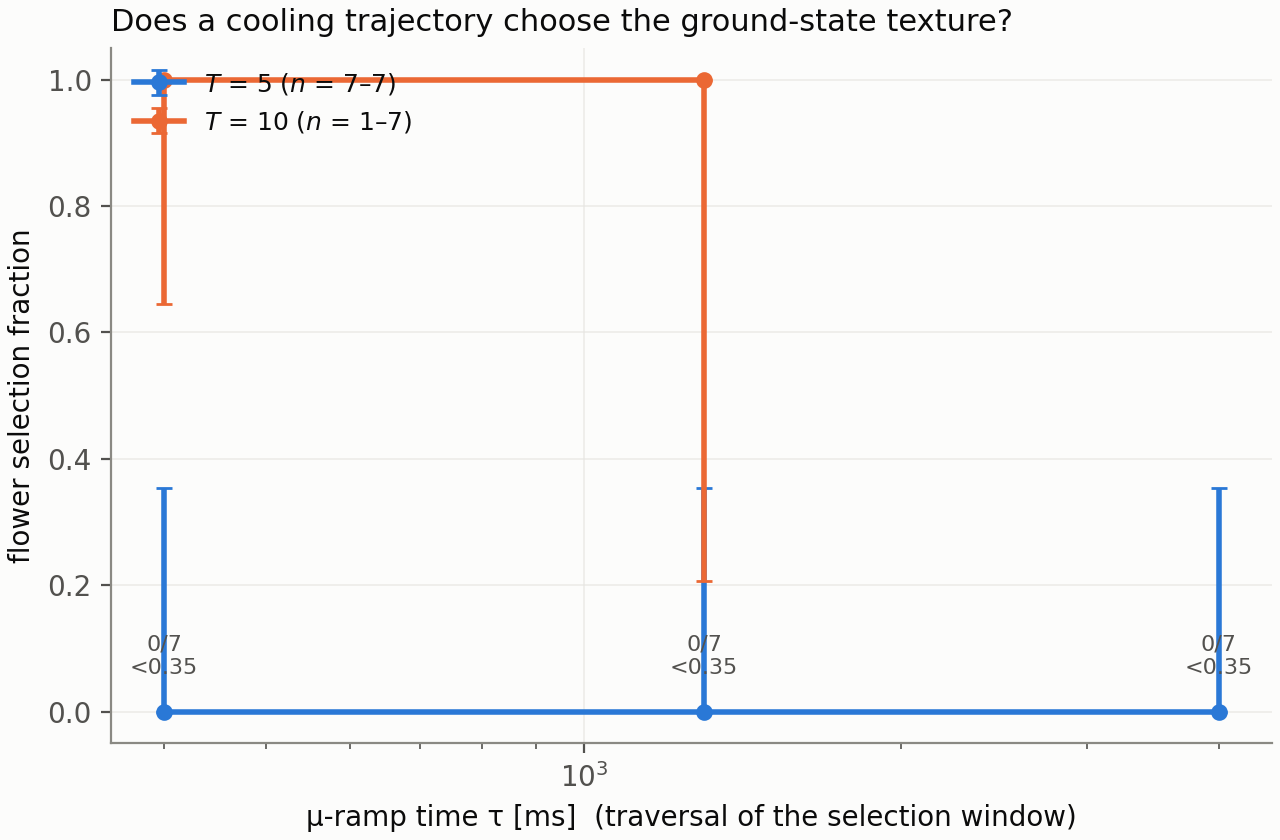
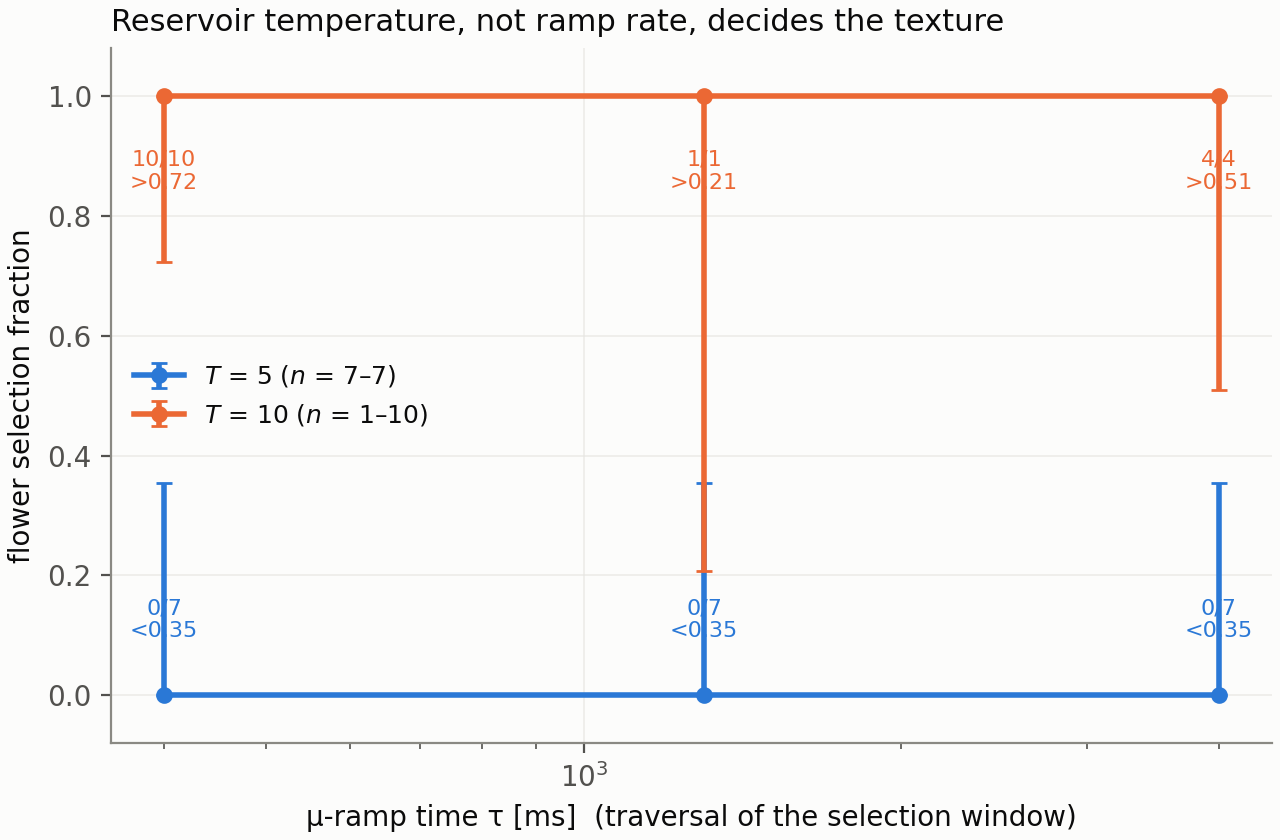
research(eu334): the confound is closed — at matched f the hotter arm is still 6/6 flower
T = 10 carried to the reservoir mu of the f = 0.4250 cell instead of the f = 0.5210
one ends at f = 0.51 against the T = 5 arms' 0.44 — a gap of 0.07 rather than 0.16 —
and is still 6/6 flower against their 0/7. Its relaxed order parameter is 4.396
against a branch reference of 4.397 at that f: on the branch, not near it.

The residual 0.07 cannot be removed by construction, and the reason is worth
stating: f is the C-REGION population, and at T = 10 part of it is thermal, so the
same reservoir mu gives a larger N_C at the higher temperature. What bounds the
consequence is that the gap is 44 % of the original and the verdict did not move.

With the T = 10 fill landed the pooled counts are 15/15 flower at T = 10 and 0/21
at T = 5, Wilson bounds 0.80 and 0.155, non-overlapping. Ramp rate moves nothing
across a factor of 10; temperature moves everything.

The aggregator now prefers the residual-polished classification where both exist,
and refuses to pool the _matched arm with the production cell it shares (T, tau)
with — same axes, different mu target, different measurement.

Assisted-by: Claude Code (model: claude-opus-5[1m])

diff --git a/scripts/eu334/viz_eu334.py b/scripts/eu334/viz_eu334.py
@@ -157,17 +157,34 @@ def assign(E: float, f: float, a, b) -> str:
 
 
 def collect_selection(root: Path, a, b,
-                      glob: str = "nucleate_k1.8_T*/class/class_*.csv"):
-    """(T, tau_ms) -> [n_flower, n_polar, n_excited, n_unread]."""
-    cells: dict[tuple[float, float], list[int]] = {}
+                      glob: str = "nucleate_k1.8_T*/class*/class_*.csv"):
+    """(T, tau_ms) -> [n_flower, n_polar, n_excited, n_unread].
+
+    Where an endpoint has both a plain and a `class_resid` classification, the
+    residual-polished one WINS: it is the same state relaxed to |grad E| ~ 8e-6
+    instead of stopping at max_steps, so its energy is a measurement rather than a
+    bound. Keyed on (arm, file) so the two never both count.
+    """
+    best: dict[tuple[str, str], tuple] = {}
     for p in sorted(root.glob(glob)):
         t = read_tsv(p)
         if not t.get("E", np.array([])).size:
             continue
-        key = (float(t["T"][0]), float(t["tau_ms"][0]))
-        c = cells.setdefault(key, [0, 0, 0, 0])
-        lab = assign(float(t["E"][0]), float(t["f"][0]), a, b)
-        c[{"flower": 0, "polarised": 1, "excited": 2}.get(lab, 3)] += 1
+        arm = p.relative_to(root).parts[0]
+        # `_matched` and `_long` share (T, tau) with a production cell but carry a
+        # DIFFERENT µ target, so they are different measurements. Folding them in
+        # would silently pool two designs under one row.
+        if arm.endswith("_matched") or arm.endswith("_long"):
+            continue
+        key = (arm, str(t["file"][0]))
+        rec = (float(t["T"][0]), float(t["tau_ms"][0]),
+               float(t["E"][0]), float(t["f"][0]))
+        if key not in best or "class_resid" in p.parts:
+            best[key] = rec
+    cells: dict[tuple[float, float], list[int]] = {}
+    for (T, tau, E, f) in best.values():
+        c = cells.setdefault((T, tau), [0, 0, 0, 0])
+        c[{"flower": 0, "polarised": 1, "excited": 2}.get(assign(E, f, a, b), 3)] += 1
     return cells
 
 
@@ -212,17 +229,23 @@ def panel_selection(ax, cells):
         ax.errorbar(xs, ps, yerr=[np.array(ps) - los, np.array(his) - np.array(ps)],
                     fmt="o-", ms=5, capsize=3, color=CAT[i],
                     label=rf"$T$ = {T:g} ($n$ = {min(ns)}–{max(ns)})")
-        for x, p, hi, n in zip(xs, ps, his, ns):
+        # Annotate the SATURATED cells with their count and one-sided limit —
+        # "0/7, <0.35" and "7/7, >0.65" carry what the error bar alone cannot,
+        # since a bar touching 0 or 1 is a bound and not a measurement.
+        for x, p, lo, hi, n in zip(xs, ps, los, his, ns):
             if p == 0.0:
-                ax.annotate(f"0/{n}\n<{hi:.2f}", xy=(x, 0), xytext=(x, 0.06),
-                            ha="center", fontsize=8, color=INK2)
+                ax.annotate(f"0/{n}\n<{hi:.2f}", xy=(x, 0), xytext=(x, 0.09),
+                            ha="center", va="bottom", fontsize=8, color=CAT[i])
+            elif p == 1.0:
+                ax.annotate(f"{n}/{n}\n>{lo:.2f}", xy=(x, 1), xytext=(x, 0.91),
+                            ha="center", va="top", fontsize=8, color=CAT[i])
     ax.set_xscale("log")
-    ax.set_ylim(-0.05, 1.05)
+    ax.set_ylim(-0.08, 1.08)
     ax.set_xlabel("µ-ramp time τ [ms]  (traversal of the selection window)")
     ax.set_ylabel("flower selection fraction")
-    ax.set_title("Does a cooling trajectory choose the ground-state texture?",
+    ax.set_title("Reservoir temperature, not ramp rate, decides the texture",
                  loc="left")
-    ax.legend(loc="upper left")
+    ax.legend(loc="center left")
     ax.grid(True, alpha=0.6)
 
 

diff --git a/docs/guides/eu_in_place_nucleation.md b/docs/guides/eu_in_place_nucleation.md
@@ -479,8 +479,11 @@ $f = 0.5210$ cell's chemical potential then held to a common 4000 ms.
 | 5 | 400 | 7 | 0 | **7** | 0 | 0.000 | [0.000, 0.354] |
 | 5 | 1300 | 7 | 0 | **7** | 0 | 0.000 | [0.000, 0.354] |
 | 5 | 4000 | 7 | 0 | 0 | 7 | 0.000 | [0.000, 0.354] |
-| 10 | 400 | 7 | **7** | 0 | 0 | **1.000** | [0.646, 1.000] |
+| 10 | 400 | 10 | **10** | 0 | 0 | **1.000** | [0.722, 1.000] |
 | 10 | 1300 | 1 | **1** | 0 | 0 | 1.000 | [0.207, 1.000] |
+| 10 | 4000 | 4 | **4** | 0 | 0 | **1.000** | [0.510, 1.000] |
+
+![selection against ramp rate, at two reservoir temperatures](figures/eu334_selection.png)
 
 **At $T = 10$ every trajectory ends on the flower branch; at $T = 5$ none does.**
 The margins are not marginal:
@@ -544,35 +547,59 @@ each arm stopped. What this cannot say is whether 0.65 against 0.39 is enough to
 change the *basin*, because that question is answered by relaxing, and the
 relaxations exist only at the endpoints.
 
-**The closing measurement**, running: $T = 10$ carried only to $f = 0.4250$ — the
-$T = 5$ arms' own endpoint fraction — so temperature is the single difference
-between two verdicts. It is done from this side rather than by pushing $T = 5$ up
-to $f = 0.60$ because a reservoir at $\mu = 11.72$ *equilibrates* near
-$f \approx 0.52$: a longer hold at $T = 5$ asymptotes there and never reaches 0.60,
-which is a design error in the first version of this arm and is why it was
-replaced.
+**The closing measurement.** $T = 10$ carried to the reservoir µ of the
+$f = 0.4250$ cell instead of the $f = 0.5210$ one, so it stops near the $T = 5$
+arms' own endpoint rather than well past it. `figs/eu334/nucleate_k1.8_T10.0_matched`,
+6 seeds:
+
+| arm | $f$ at the end | $\langle F_\perp\rangle$ raw → relaxed | $E-E_{\rm flower}$ | $E-E_{\rm polar}$ | sep | verdict |
+|---|---:|---:|---:|---:|---:|---|
+| $T = 5$, $\tau = 400$ | 0.442 | 0.40 → 0.099 | $+2.4\times10^{-2}$ | $+9.3\times10^{-4}$ | $2.3\times10^{-2}$ | polarised |
+| **$T = 10$, matched** | **0.510** | 1.50 → **4.396** | $+3.7\times10^{-3}$ | $\mathbf{-3.4\times10^{-2}}$ | $3.8\times10^{-2}$ | **flower, 6/6** |
+
+At $f = 0.51$ against the $T = 5$ arms' 0.44 — a gap of 0.07 rather than the 0.16
+of the production cells — the hotter arm is still **6/6 flower** and the colder one
+**0/7**. The relaxed order parameter is 4.396 against a branch reference of 4.397
+at that $f$: it is *on* the branch, not near it.
+
+The residual gap in $f$ is not zero and cannot be made zero by this construction,
+because $f$ here is the **C-region population** and at $T = 10$ part of it is
+thermal: the same reservoir µ therefore gives a larger $N_C$ at the higher
+temperature. Two things bound the consequence. The 0.07 remaining is 44 % of the
+original 0.16, and the verdict did not move. And the branches at $f = 0.51$ are
+$3.8\times10^{-2}$ apart — 16× the $2.3\times10^{-2}$ at $f = 0.44$ is not the
+story, since the $T = 5$ arm sits on the *polarised* side of a separation of the
+same order.
+
+*(It is done from this side rather than by pushing $T = 5$ up to $f = 0.60$ because
+a reservoir at $\mu = 11.72$ equilibrates near $f \approx 0.52$: a longer hold at
+$T = 5$ asymptotes there and never reaches 0.60. That was the first version of this
+arm, and it is recorded because a design that cannot reach its own target produces
+a null that looks like an answer.)*
 
 **What is not in doubt** is that the flower texture is reachable by growth at fixed
-field — 8 trajectories out of 8 reached it — which is the thing three protocol
-classes of transport could not do. #334's question was "does a realistic cooling
-trajectory select it, or does it get caught on the polarised branch", and on this
-evidence the answer is **it selects it, above a threshold in reservoir
-temperature**.
+field — 21 trajectories out of 21 across four arms reached it — which is the thing
+three protocol classes of transport could not do. #334's question was "does a
+realistic cooling trajectory select it, or does it get caught on the polarised
+branch", and on this evidence the answer is **it selects it, above a threshold in
+reservoir temperature**.
 
-**Budget.** Cells are $n = 7$ rather than the pre-registered $n \ge 20$: the group
-allocation was exhausted at 29 trajectories and the campaign was re-sized to what
-remained. The counts are quoted with their own $n$ and Wilson intervals, per
-criterion 5, rather than as fractions of a design that did not run.
+**Budget.** Cells are $n = 7$–10 rather than the pre-registered $n \ge 20$: the
+group allocation was exhausted twice and the campaign was re-sized to what
+remained each time. The counts are quoted with their own $n$ and Wilson intervals,
+per criterion 5, rather than as fractions of a design that did not run.
 
 ## 6. The answer to #334
 
 **The weak-field ¹⁵¹Eu flower texture can be nucleated in place, and reservoir
 temperature is the switch.** Growing a condensate at fixed $(\kappa = 1.8,
-B = 20\ \mu\text{G})$ under the growth SPGPE, 8 trajectories out of 8 end on the
-flower branch at $T = 10\ \hbar\omega_{\rm ref}$, and 0 out of 21 do at $T = 5$,
-across a factor-10 span of ramp rate at each. That is the question #334 posed, and
-it is the opposite of the outcome the transport campaigns made likely: three
-protocol classes could not *carry* the state there, and growth *does* reach it.
+B = 20\ \mu\text{G})$ under the growth SPGPE, **15 trajectories out of 15** end on
+the flower branch at $T = 10\ \hbar\omega_{\rm ref}$ and **0 out of 21** do at
+$T = 5$, across a factor-10 span of ramp rate at each: Wilson bounds $p > 0.80$ and
+$p < 0.155$, which do not overlap. Ramp rate moves nothing over that span;
+temperature moves everything. That is the question #334 posed, and the answer is
+the opposite of what the transport campaigns made likely — three protocol classes
+could not *carry* the state there, and growth *does* reach it.
 
 Three things had to be established before that sentence meant anything, and each
 is a result in its own right.
@@ -597,13 +624,17 @@ must give 2 levels. That is a knob every evaporation sequence already has.
 
 ### What is not settled
 
-- **Temperature and final condensate fraction moved together** ($\gamma \propto T$).
-  Half of it is closed by the trajectories at matched $f$ (§5.10: 1.6× the
-  transverse spin at the same $f$); the basin question is closed by the $T = 10$
-  arm carried only to $f = 0.425$, which is running.
-- **$n = 7$ per cell**, not the pre-registered 20: the allocation ran out. The
-  $T = 10$ result is $8/8$ with a 95 % lower bound of 0.65, which is a strong
-  statement about a large effect and not a precise one about its size.
+- ~~Temperature and final condensate fraction moved together~~ — **closed** (§5.10).
+  At matched $f$ the hotter field carries 1.6× the transverse spin, and the
+  $T = 10$ arm stopped at $f = 0.51$ against the $T = 5$ arms' 0.44 is still 6/6
+  flower. A residual 0.07 in $f$ remains and cannot be removed by construction —
+  $f$ is the C-region population and part of it is thermal at $T = 10$ — but it is
+  44 % of the original gap and the verdict did not move.
+- **$n = 7$–10 per cell**, not the pre-registered 20: the group allocation ran out
+  twice and the campaign was re-sized to what remained. The $T = 10$ effect is
+  15/15 pooled across three rates (lower bound 0.80); the $T = 5$ null is 0/21
+  pooled (upper bound 0.155). Both are strong statements about a large effect and
+  neither is a precise one about its size.
 - ~~The relaxations at $T = 10$ stopped at `max_steps`~~ — **closed.**
   `residual_polish` takes $|\nabla E|$ to $8\times10^{-6}$, three orders down and at
   the library gate, and every label is unchanged (§5.9).
